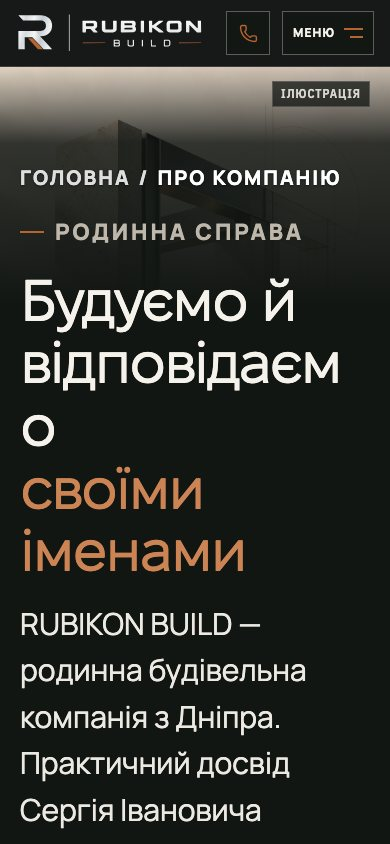
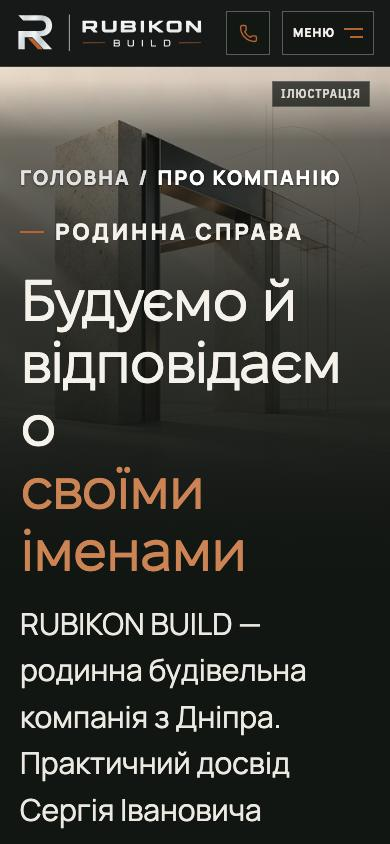
design: soften About mobile illustration and tighten scroll cue

Changed region(s): [[0.0, 0.0616, 1.0, 0.5237], [0.2769, 0.5545, 0.3077, 0.5853], [0.2154, 0.5853, 0.2462, 0.6161]]

diff --git a/app/mobile-media-review.css b/app/mobile-media-review.css
@@ -31,9 +31,18 @@
     filter: none;
   }
   main.about-page .about-subhero .subhero-overlay {
+    /* The first-visit cookie reserve lifts the copy; move its shade with it before first paint. */
     background: linear-gradient(180deg, rgba(18,22,19,.03) var(--phone-scene-header),
-      rgba(18,22,19,.08) clamp(80px, calc(100svh - 39.375rem), 300px),
-      rgba(18,22,19,.88) clamp(140px, calc(100svh - 32.5rem), 420px),
-      #121613 clamp(300px, calc(100svh - 23rem), 550px));
+      rgba(18,22,19,.06) clamp(80px, calc(100svh - 39.375rem - var(--consent-banner-reserve, 0px)), 300px),
+      rgba(18,22,19,.58) clamp(140px, calc(100svh - 32.5rem - var(--consent-banner-reserve, 0px)), 420px),
+      rgba(18,22,19,.85) clamp(300px, calc(100svh - 19rem - var(--consent-banner-reserve, 0px)), 660px),
+      #121613 clamp(450px, calc(100svh - 8rem - var(--consent-banner-reserve, 0px)), 850px));
+  }
+  /* Retain the 44px touch target and Safari tail; only close the CTA-to-cue gap. */
+  main.inner-page.about-page > .phone-hero .phone-hero-scroll {
+    margin-top: 12px;
+  }
+  main.inner-page.about-page > .phone-hero :is(.eyebrow.light, .breadcrumb, .breadcrumb a) {
+    color: var(--color-dark-text);
   }
 }

diff --git a/tests/e2e/hero-video.spec.ts b/tests/e2e/hero-video.spec.ts
@@ -701,7 +701,8 @@ for (const route of routes.filter(route => route !== '/')) {
       expect(bounds.photoBottom).toBeGreaterThanOrEqual(bounds.bottom - 1);
     }
     expect(bounds.cueBottom).toBeLessThanOrEqual(832);
-    expect(bounds.actionBottom).toBeLessThanOrEqual(bounds.cueBottom - 60);
+    // About's owner-requested tighter gap still leaves the complete 44px cue target separate from the CTA.
+    expect(bounds.actionBottom).toBeLessThanOrEqual(bounds.cueBottom - (route === '/pro-nas' ? 56 : 60));
     expect(await page.evaluate(() => document.documentElement.scrollWidth)).toBe(390);
     await expect(hero.locator('.hero-call-primary')).toHaveAttribute('href', 'tel:+380682614264');
     const href = await cue.getAttribute('href');

diff --git a/docs/handoffs/2026-10-24-selected-c-mobile-heroes.md b/docs/handoffs/2026-10-24-selected-c-mobile-heroes.md
@@ -20,3 +20,14 @@
 Галереї перевірено окремо:48зображень нового творчого раунду, інертність ін’єкції та безпечний fallback неправильногоroute. ДляURL використовуються закриті списки статичних медіафайлів. АктуальнийCodeQL перевіряється вPR; попередні зауваження не приховано й не виключено з правил.
 
 [Точні prompts і джерела](2026-10-24-creative-hero-prompts.md). Нові рендери створені вбудованимimage_gen; додатковийstock/відео не залучено. Старі невикористаніD-варіантиAbout прибрано з основного набору медіа. Тимчасові review-галереї передmerge треба прибрати або окремо погодити. Production/main не змінено, merge не виконано.
+
+
+## Уточнення за iPhone-скриншотом власника: м’якший About
+
+![About до / після](media/about-softer-before-after.jpg)
+
+Тільки About ≤600px: середній stop затемнення .88 → .58, м’який перехід .85, повний графіт пізніше. Видимі бетонні опори, підлога й креслярські лінії. Дрібні breadcrumb/eyebrow світліші; на першому візиті градієнт піднімається разом із текстом над cookie-панеллю. Відступ CTA → стрілка 24 → 12px, зона натискання 44×44px і Safari tail збережені. HOME та решта маршрутів у цьому уточненні без змін.
+
+Перевірено Chromium320/375/390/430/768 у двох темах, WebKit320/390/430,200%текст і reduced motion. JS/overflow помилок немає. Виміряні видимі написи на320/390/430 проходять пороги3:1 для великого й4.5:1 для дрібного тексту; це не повнийWCAG-аудит. Перший візит перевірений окремо. 8focused browser checks пройшли (3нерелевантнікомбінації skipped), build пройшов. Геометричний тест уточнено лише для нового відступу About; visual snapshots не змінювалися.
+
+Медіафайл той самий:78 656B наDPR3,18 344B наDPR1; одинposter, без phone-video, measuredChromiumCLS0. Це емуляція, потрібен повторний перегляд на фізичному iPhone12.
